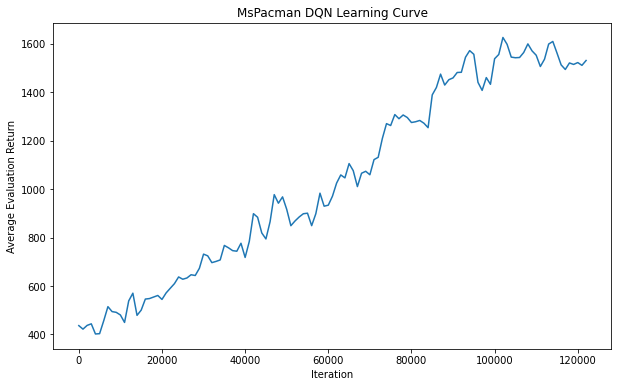
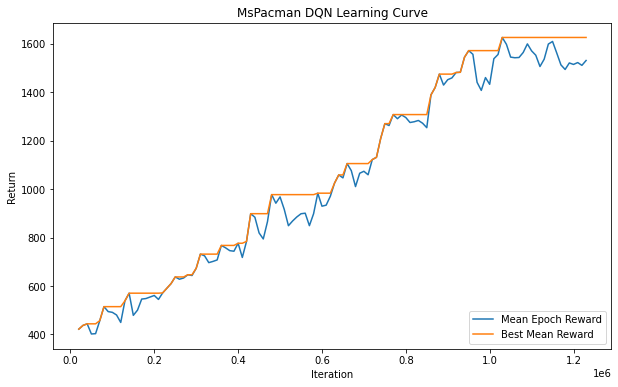
hw3: plotting update

diff --git a/hw3/plotting.py b/hw3/plotting.py
@@ -28,20 +28,40 @@ def get_section_results(file):
                 Z.append(v.simple_value)
     return X, Y, Z
 
+def get_section_results_mean(file):
+    """
+        requires tensorflow==1.12.0
+    """
+    X = []
+    Y = []
+    Z = []
+    for e in tf.compat.v1.train.summary_iterator(file):
+        for v in e.summary.value:
+            if v.tag == 'Train_EnvstepsSoFar':
+                X.append(v.simple_value)
+            elif v.tag == 'Train_AverageReturn':
+                Y.append(v.simple_value)
+            elif v.tag == 'Train_BestReturn':
+                Z.append(v.simple_value)
+    return X, Y, Z
+
 
 #%% q1
 q1 = glob.glob('**/q1_MsPacman-v0_13-10-2022_22-59-43/*')[0]
 
-_, q1_returns, _ = get_section_results(q1)
+steps, q1_returns, q1_means = get_section_results_mean(q1)
 
-
+steps = steps[2:]
+q1_returns = q1_returns[1:]
 
 itr = np.arange(len(q1_returns))*1000
 
 fig1 = plt.figure()
-plt.plot(itr, q1_returns)
+plt.plot(steps, q1_returns, label="Mean Epoch Reward")
+plt.plot(steps, q1_means, label="Best Mean Reward")
+plt.legend(loc = "lower right")
 plt.xlabel('Iteration')
-plt.ylabel('Average Training Return')
+plt.ylabel('Return')
 plt.title('MsPacman DQN Learning Curve')
 fig1.set_size_inches(10, 6)
 plt.show()
@@ -60,9 +80,9 @@ steps,q2_dqn1_returns,_ = get_section_results(q2_dqn1)
 _,q2_dqn2_returns,_ = get_section_results(q2_dqn2)
 _,q2_dqn3_returns,_ = get_section_results(q2_dqn3)
 
-_,q2_ddqn1_returns,_ = get_section_results(q2_dqn1)
-_,q2_ddqn2_returns,_ = get_section_results(q2_dqn2)
-_,q2_ddqn3_returns,_ = get_section_results(q2_dqn3)
+_,q2_ddqn1_returns,_ = get_section_results(q2_ddqn1)
+_,q2_ddqn2_returns,_ = get_section_results(q2_ddqn2)
+_,q2_ddqn3_returns,_ = get_section_results(q2_ddqn3)
 
 steps = np.array(steps)-1
 steps = steps[1:]
